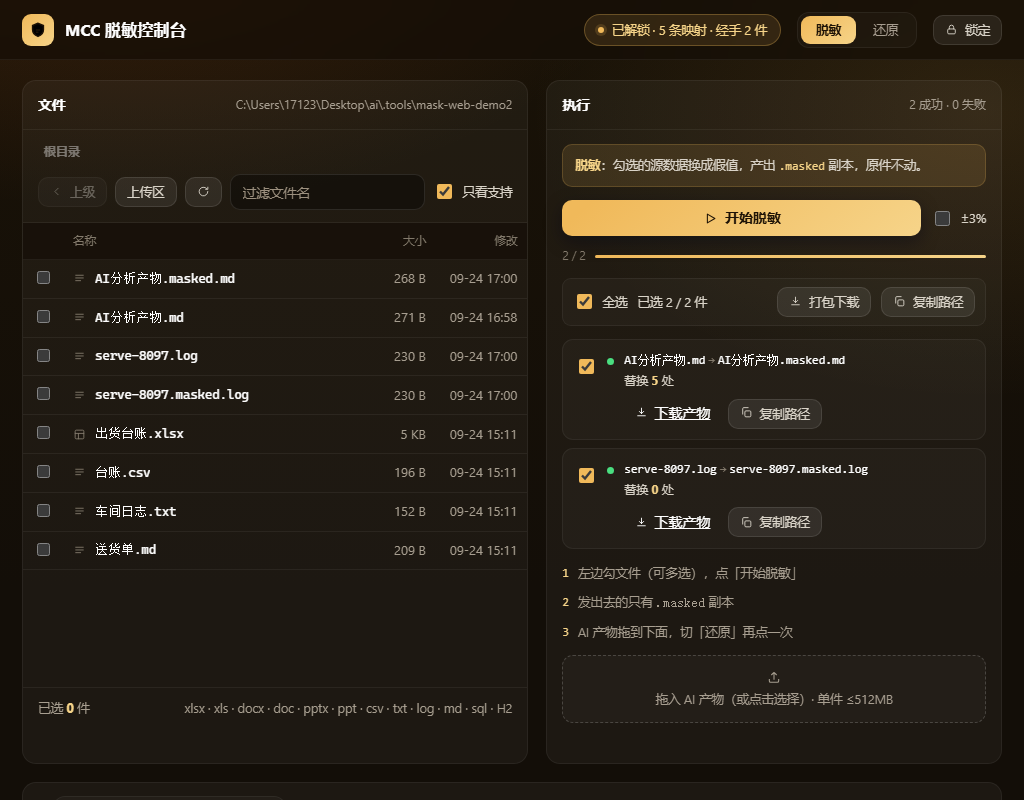
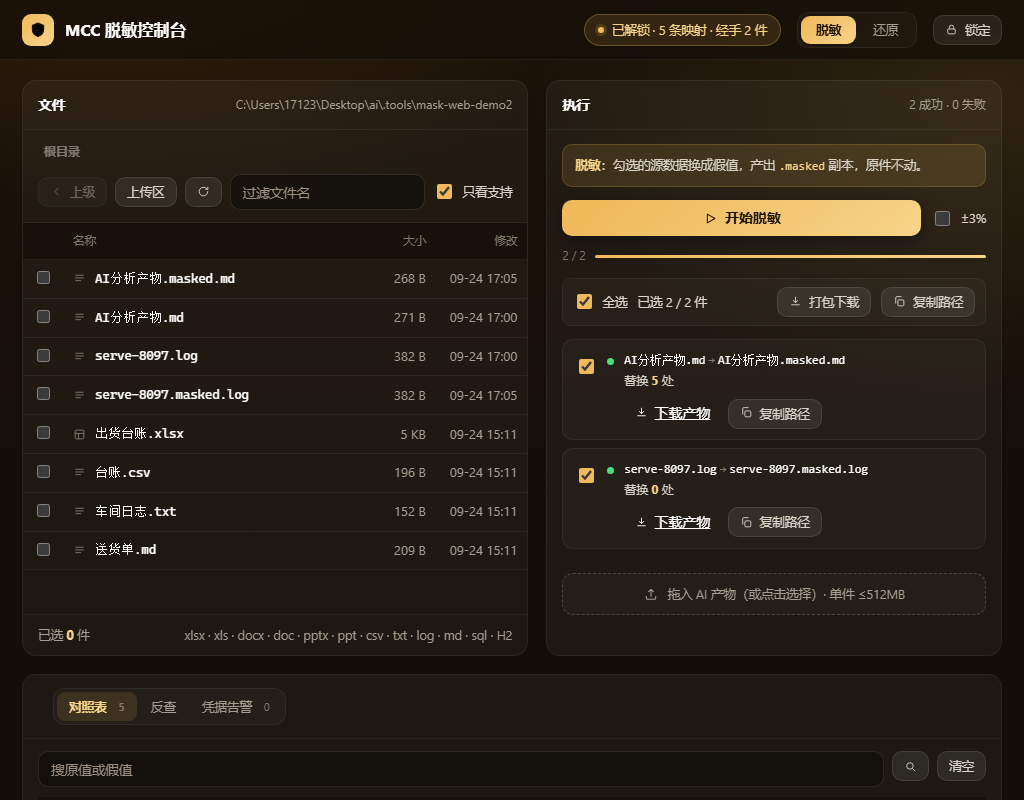
ui: 三栏显示区统一（滚动区一律 flex:1 + 面板等高）+ 执行栏瘦身 + 服务日志移出工作目录

diff --git a/src/main/resources/web/index.html b/src/main/resources/web/index.html
@@ -107,7 +107,7 @@ input:focus{border-color:var(--gold);box-shadow:0 0 0 3px rgba(240,185,90,.14)}
   max-width:1500px;margin:0 auto;padding:20px 22px 40px;align-items:stretch}
 .shell.locked{opacity:.36;filter:saturate(.4);pointer-events:none}
 .pane{background:var(--panel);border:1px solid var(--line-2);border-radius:var(--r);min-width:0;
-  display:flex;flex-direction:column;min-height:min(66vh,560px)}
+  display:flex;flex-direction:column;min-height:min(72vh,640px)}
 .pane > header{display:flex;align-items:center;gap:10px;padding:13px 15px;border-bottom:1px solid var(--line-2)}
 .pane > header h2{margin:0;font-size:13.5px;font-weight:650;letter-spacing:.2px}
 .pane > header .meta{font-size:12px;color:var(--t3);margin-left:auto;min-width:0;overflow:hidden;text-overflow:ellipsis;white-space:nowrap}
@@ -122,7 +122,7 @@ input:focus{border-color:var(--gold);box-shadow:0 0 0 3px rgba(240,185,90,.14)}
 .path .sl{opacity:.35;padding:0 1px}
 .tools{display:flex;align-items:center;gap:8px;padding:11px 15px 12px;border-bottom:1px solid var(--line-2)}
 .tools .grow{flex:1;min-width:120px}
-.tablewrap{flex:1;min-height:260px;max-height:min(58vh,560px);overflow:auto;overscroll-behavior:contain}
+.tablewrap{flex:1;min-height:260px;overflow:auto;overscroll-behavior:contain}
 table.grid{width:100%;border-collapse:separate;border-spacing:0}
 table.grid th{position:sticky;top:0;z-index:1;text-align:left;font-size:11.5px;font-weight:500;color:var(--t4);
   padding:9px 10px;background:rgba(23,17,10,.94);backdrop-filter:blur(6px);border-bottom:1px solid var(--line-2)}
@@ -160,7 +160,7 @@ tr.dir:hover .txt{text-decoration:underline;text-underline-offset:3px}
 .track{flex:1;height:3px;border-radius:99px;background:rgba(255,255,255,.08);overflow:hidden}
 .track i{display:block;height:100%;width:0;background:linear-gradient(90deg,var(--gold),var(--gold-2));
   transition:width .3s var(--ease)}
-.results{margin-top:13px;display:grid;gap:8px;flex:1;min-height:0;max-height:min(40vh,380px);overflow:auto;overscroll-behavior:contain;align-content:start}
+.results{margin-top:13px;display:grid;gap:8px;flex:1;min-height:210px;overflow:auto;overscroll-behavior:contain;align-content:start}
 .res{display:grid;grid-template-columns:auto auto minmax(0,1fr);gap:10px;padding:11px 12px;border-radius:11px;
   background:var(--panel-2);border:1px solid var(--line-2)}
 .res.pickable{cursor:pointer}
@@ -185,11 +185,12 @@ tr.dir:hover .txt{text-decoration:underline;text-underline-offset:3px}
 .res .why{font-size:12px;color:#ff9fb0;margin-top:3px;line-height:1.6}
 .res .note{font-size:11.5px;color:var(--warn);margin-top:4px;line-height:1.6}
 .res .ops{display:flex;gap:6px;margin-top:8px}
-.drop{margin-top:13px;padding:13px 12px;border-radius:11px;text-align:center;color:var(--t3);font-size:12.5px;
+.drop{margin-top:13px;padding:10px 12px;border-radius:11px;text-align:center;color:var(--t3);font-size:12.5px;
+  display:flex;align-items:center;justify-content:center;gap:8px;
   border:1px dashed rgba(255,255,255,.18);background:var(--panel-2);cursor:pointer;transition:.18s var(--ease)}
 .drop:hover{border-color:rgba(240,185,90,.4);color:var(--t2)}
 .drop.hot{border-color:var(--gold);border-style:solid;color:var(--gold-2);background:var(--gold-soft)}
-.drop svg{width:16px;height:16px;margin:0 auto 4px;stroke:currentColor}
+.drop svg{width:16px;height:16px;stroke:currentColor;flex:none}
 .how{list-style:none;margin:auto 0 0;padding:14px 0 0;display:grid;gap:9px;font-size:12.5px;color:var(--t3)}
 .how li{display:flex;gap:9px;align-items:flex-start}
 .how .k{color:var(--gold-2);font-family:ui-monospace,Consolas,monospace;font-size:11.5px;padding-top:1px}
@@ -203,7 +204,7 @@ tr.dir:hover .txt{text-decoration:underline;text-underline-offset:3px}
 .pane-audit #view-pairs{display:flex;flex-direction:column;flex:1;min-height:0}
 .pane-audit .search{display:flex;gap:8px;padding:12px 15px 10px}
 .pane-audit .search input{flex:1}
-.auditwrap{flex:1;min-height:200px;max-height:min(54vh,520px);overflow:auto;overscroll-behavior:contain;padding:0 15px}
+.auditwrap{flex:1;min-height:200px;overflow:auto;overscroll-behavior:contain;padding:0 15px}
 .lookup{padding:14px 15px}
 .lookup .ask{display:flex;gap:8px}
 .lookup .ask input{flex:1}
@@ -307,14 +308,9 @@ tr.dir:hover .txt{text-decoration:underline;text-underline-offset:3px}
         <button class="quiet" id="cpAllBtn"><svg class="i s" viewBox="0 0 24 24"><rect x="9" y="9" width="11" height="11" rx="2"/><path d="M5 15V5a2 2 0 0 1 2-2h8"/></svg>复制路径</button>
       </div>
       <div class="results" id="results"></div>
-      <ul class="how" id="how">
-        <li><span class="k">1</span><span>左边勾文件（可多选），点「开始脱敏」</span></li>
-        <li><span class="k">2</span><span>发出去的只有 <code>.masked</code> 副本</span></li>
-        <li><span class="k">3</span><span>AI 产物拖到下面，切「还原」再点一次</span></li>
-      </ul>
-      <div class="drop" id="drop">
+      <div class="drop" id="drop" title="也可以直接把文件拖到这里的整个执行栏">
         <svg viewBox="0 0 24 24" fill="none" stroke="currentColor" stroke-width="1.6"><path d="M12 16V5m0 0L8 9m4-4 4 4"/><path d="M5 15v3a2 2 0 0 0 2 2h10a2 2 0 0 0 2-2v-3"/></svg>
-        拖入 AI 产物（或点击选择）· 单件 ≤512MB
+        <span>拖入 AI 产物（或点击选择）· 单件 ≤512MB</span>
       </div>
       <input type="file" id="file" class="hide" multiple>
       <div id="upErr" class="err" style="color:var(--red);font-size:12.5px;min-height:18px;margin-top:8px"></div>
@@ -505,7 +501,7 @@ async function run(){
   const files=$$('.fchk:checked').map(c=>c.value);
   if(!files.length){$('#runInfo').textContent='先勾选文件';return}
   const btn=$('#runBtn');btn.disabled=true;btn.querySelector('svg').classList.add('spin');
-  $('#results').innerHTML='';$('#resBar').classList.add('hide');$('#upErr').textContent='';
+  $('#results').innerHTML=HOW_HTML;$('#resBar').classList.add('hide');$('#upErr').textContent='';
   $('#bar').style.width='0%';$('#progTxt').textContent='0 / '+files.length;
   let done=0;const all=[];
   for(const f of files){
@@ -569,6 +565,13 @@ async function copyText(text){
   ta.onclick=()=>ta.remove();
   return 'manual';
 }
+
+const HOW_HTML=`<div class="blank" style="text-align:left;padding:22px 18px">
+  <ul class="how" style="margin:0">
+    <li><span class="k">1</span><span>左边勾文件（可多选，点行就行），点「开始脱敏」</span></li>
+    <li><span class="k">2</span><span>发出去的只有 <code>.masked</code> 副本，原件不动</span></li>
+    <li><span class="k">3</span><span>AI 产物拖进下面那行，切「还原」再点一次</span></li>
+  </ul></div>`;
 
 function bindResults(){
   const cards=$$('#results .res');
@@ -667,7 +670,9 @@ addEventListener('pagehide',()=>{navigator.sendBeacon('/api/lock',new Blob(['{}'
 const st=document.createElement('style');
 st.textContent='@keyframes rise{from{opacity:0;transform:translateY(6px)}to{opacity:1;transform:none}}';
 document.head.appendChild(st);
-setMode('mask');setView('pairs');renderWarns();refreshState();
+setMode('mask');setView('pairs');renderWarns();
+$('#results').innerHTML=HOW_HTML;
+refreshState();
 </script>
 </body>
 </html>

diff --git a/docs/log/变更日志.md b/docs/log/变更日志.md
@@ -2,6 +2,12 @@
 
 > 一行一条，新的在上。
 
+## 2026-09-24（三栏显示区统一）
+- [改版] **三栏显示区对齐**（用户："一个显示区域多一个少的"）：根因是三栏内部滚动区各自限高（文件 58vh / 执行 40vh / 核查 54vh），于是这栏撑到底、那栏半截就空 → 三处统一 `flex:1` 吃满各自面板，面板再等高，**三栏底边与内容带一致**；面板最小高提到 72vh/640px
+- [改版] **执行栏瘦身**：上手三步从固定块挪进结果区当"空态"（有结果即让位，不再白占 100px），上传口收成一行（图标+文字同行）
+- [修复] 服务端日志不再落进工作目录（我 `serve` 的 stdout 之前写到了被监视的 root 里，于是 `serve-8099.log` 出现在文件列表）：日志改到 `ai\.tools\mask-serve-logs\`，并清掉 demo 目录里的残留
+- [测试] 浏览器断言 **45/45**、四视口排版测量全绿
+
 ## 2026-09-24（产物选择与对照跟随）
 - [功能] **执行区加"一键"批量动作**：结果卡支持勾选（全选/单点行切换/点正文取消），头部给「打包下载」（服务端真打 zip，浏览器只弹一次保存框）与「复制路径」（复制绝对路径，多行）
 - [功能] **两个列表都改成"点行即选"**：文件区不再必须点勾选框，点行任意位置（含文件名）即可切换；结果卡同理，选中行高亮
